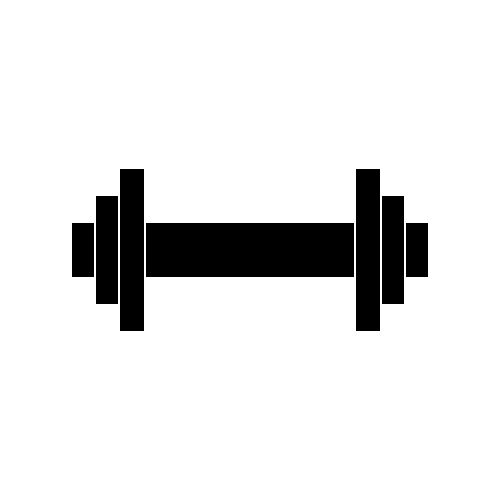
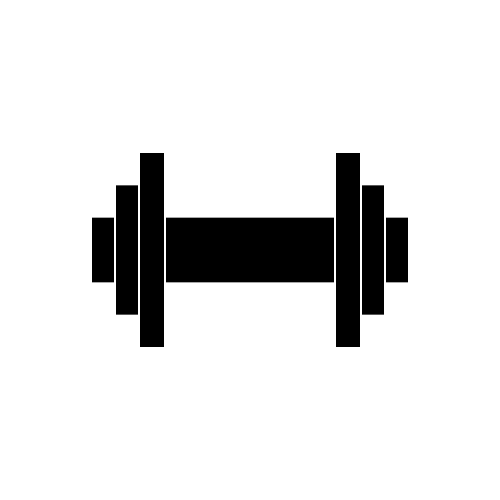
weighted choices
weighted choices actually make a difference now. also tweaked some icons

Changed region(s): [[0.12, 0.3, 0.87, 0.72]]

diff --git a/src/App.js b/src/App.js
@@ -15,14 +15,16 @@ class App extends Component {
         autoDelete: false,
         dishonest: false,
         night: false,
-        popUp: true,
+        popUp: false,
         runnerUp: false,
         weighted: false
       },
       menu: false, // true: expanded menu (half list), false: collapsed menu (full list)
+
       list: ['Hike', 'Sleep', 'Code', 'Read', 'Cook', 'Write'],
       weights: [3, 3, 3, 3, 3, 3], //between 1-5, i.e. item with weight 5 is 5x more likely to be picked over item with weight 1
       selected: [-1, -2, -3], // last two indexes optional for runnerUp
+
       foolsGold: -1,
       info: "Hi, I'm Scott.\nThis is my first web app using ReactJS.\nI created this because my girlfriend and I hate having to decide on things.\nYes I was being petty."
 
@@ -31,9 +33,15 @@ class App extends Component {
     this.optionsToggle = this.optionsToggle.bind(this);
   }
 
-  clearAll() {
-    if (window.confirm('Are you sure you want to clear your list?'))
-      this.setState({list: [], selected: -1});
+  addItem(){
+    var item = document.getElementById("listItem").value;
+    console.log("Adding " + item);
+    if(item !== ""){
+      document.getElementById("listItem").value = "";
+      var newList = this.state.list.slice();
+      newList.push(item);
+      this.setState({list: newList});
+    }
   }
 
   delete(index) {
@@ -57,8 +65,13 @@ class App extends Component {
     this.setState({selected: newSelected});
   }
 
+  clearAll() {
+    if (window.confirm('Are you sure you want to clear your list?'))
+      this.setState({list: [], selected: -1});
+  }
+
+
   rename(index) {
-    //todo: figure out how to make this usable
     var newName = prompt("Rename item?");
     if (newName !== null && newName !== "") {
       var newList = this.state.list.slice();
@@ -76,21 +89,10 @@ class App extends Component {
     this.setState({weights: newWeights});
   }
 
-  addItem(){
-    var item = document.getElementById("listItem").value;
-    console.log("Adding " + item);
-    if(item !== ""){
-      document.getElementById("listItem").value = "";
-      var newList = this.state.list.slice();
-      newList.push(item);
-      this.setState({list: newList});
-    }
-  }
-
   decide(){
     var len = this.state.list.length;
 
-    //autoDelete: true
+    //check is autoDelete is enabled
     if(this.state.options.autoDelete && this.state.selected[0] >= 0){
       this.delete(this.state.selected[0]);
       len--;
@@ -99,12 +101,13 @@ class App extends Component {
 
     var gold;
 
+    //dishonest
     if (this.state.options.dishonest){
       gold = this.state.foolsGold;
       this.optionsToggle('dishonest');
     }
     else {
-      gold = (len > 0) ? Math.floor(Math.random() * len) : -1;
+      gold = this.pickRandom(len, 0, -1);
     }
 
     var silver = this.pickRandom(len, 1, -2);
@@ -120,7 +123,31 @@ class App extends Component {
   }
 
   pickRandom(len, min, def) {
+    if (this.state.options.weighted)
+      return this.pickWeighted(min, def);
+    
     return (len > min) ? Math.floor(Math.random() * len) : def;
+  }
+
+  pickWeighted(min, def) {
+    if (this.state.list.length <= min)
+      return def;
+
+    var weightLen = this.state.weights.reduce((x, y) => x + y);
+    var weightIndex = Math.ceil(Math.random() * weightLen);
+    var chosenIndex = 0;
+    var travelIndex = 1;
+
+    for (var i = 0; i < weightIndex; i++){
+      if (travelIndex > this.state.weights[chosenIndex]) {
+        travelIndex = 1;
+        chosenIndex++;
+      }
+      travelIndex++;
+    }
+
+    console.log(weightIndex + " " + chosenIndex);
+    return chosenIndex;
   }
 
   // Footer
@@ -128,7 +155,6 @@ class App extends Component {
     var newMenu = !this.state.menu;
     this.setState({menu: newMenu});
   }
-
 
   optionsToggle(property) {
     let newOptions = {...this.state.options};
@@ -156,7 +182,6 @@ class App extends Component {
 
 
   render() {
-
     var listItems = [];
     this.state.list.forEach((item, i) => {
       listItems.push(
@@ -164,7 +189,7 @@ class App extends Component {
           item={item} 
           key={i} 
           index={i}
-          weight={this.state.weights[i]} 
+          weight={this.state.weights[i]}
           selected={this.state.selected} 
           rename={() => this.rename(i)}
           delete={() => this.delete(i)} 
@@ -174,7 +199,6 @@ class App extends Component {
     });
 
     var selected = (this.state.selected[0] >= 0) ? this.state.list[this.state.selected[0]] : "Decide on something";
-
 
     return (
       <div id="interface" className={classPicker("interface", "night", "day", this.state.options.night)}>

diff --git a/src/components/ListItem.js b/src/components/ListItem.js
@@ -42,8 +42,7 @@ class ListItem extends Component {
   toggleWeight() {
     if (!this.props.options.weighted)
       alert("Enable weighted option first");
-    else
-      this.setState({centerContent: !this.state.centerContent});
+    this.setState({centerContent: !this.state.centerContent});
   }
 
   renderContent() {

diff --git a/src/components/OptionToggle.css b/src/components/OptionToggle.css
@@ -54,7 +54,8 @@
 }
 
 .toggle-name {
-    font-size: 1em;
+    font-size: 0.9em;
+    white-space: nowrap;
     margin: 0;
     text-align: center;
 }
